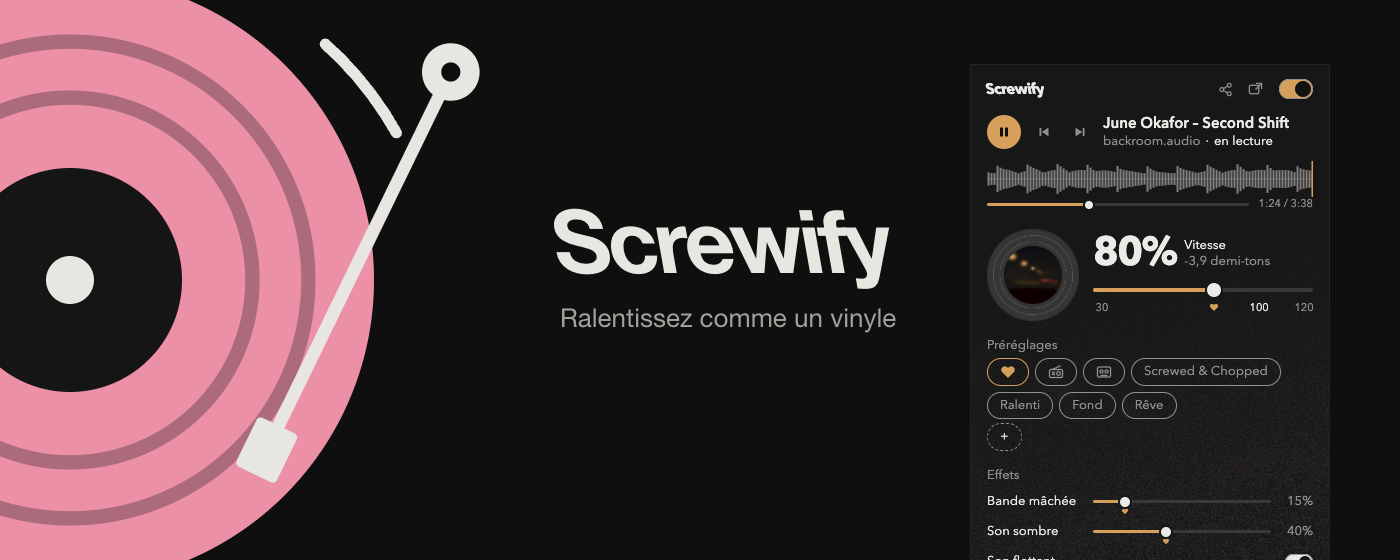
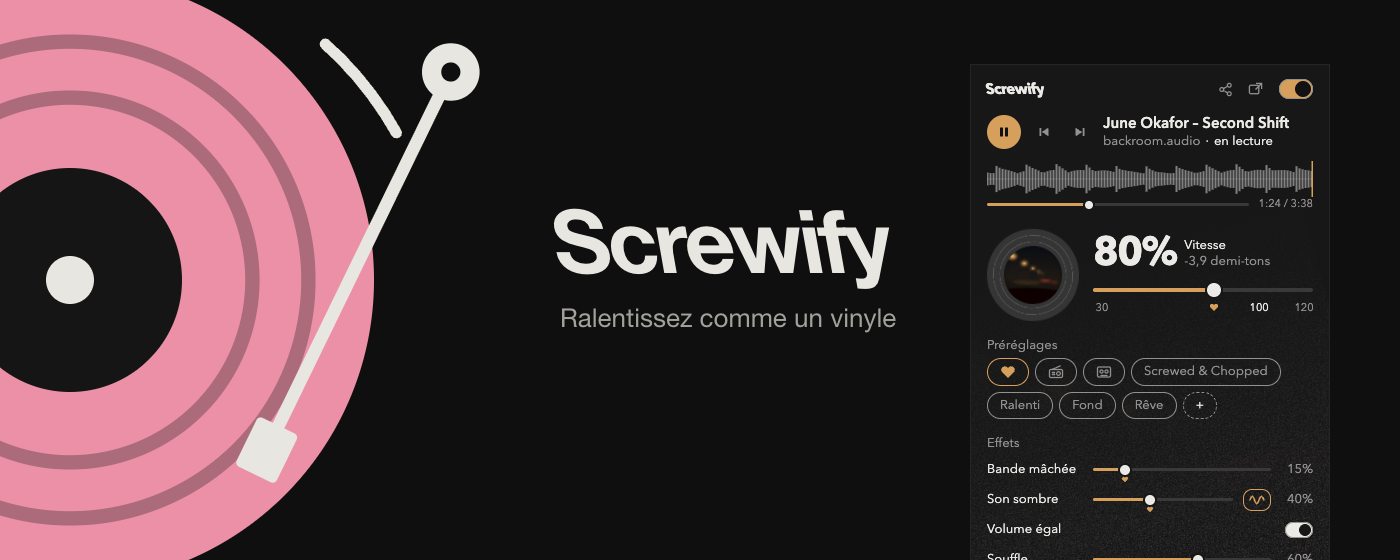
Сайт: панель и обложки под Screwify 0.24.1

diff --git a/panel/i18n.js b/panel/i18n.js
@@ -22,6 +22,8 @@ const SCREWED_I18N = {
     favSet: 'Set the recommended value',
     drift: 'Drifting tone',
     driftHint: 'The tone slowly drifts at random: the sound gets a little duller, then clearer again – like old tape. Like tape chew, but for the timbre.',
+    level: 'Even volume',
+    levelHint: 'Gently evens out loud and quiet parts, so a quiet verse and a loud chorus sit closer together – handy for background listening.',
     noise: 'Static',
     noiseTip: 'Hiss and crackle like a fading radio signal: they come and go, and get muffled together with the tone',
     restart: 'Reload the tab',
@@ -54,6 +56,13 @@ const SCREWED_I18N = {
     change: 'Change…',
     reset: 'Reset',
     presets: 'Presets',
+    wall: 'Behind the wall',
+    wallTip: 'Muffled sound, like music from the next room or a car outside – booming bass, no highs. Off by default',
+    vinyl: 'Vinyl crackle',
+    vinylTip: 'Dust and clicks of an old record, plus a faint low hum. Off by default. \'Steady\' – constant; \'Now and then\' – in waves',
+    vinylMode: 'Vinyl mode',
+    vinylSteady: 'Steady',
+    vinylRandom: 'Now and then',
     reverb: 'Reverb',
     reverbTip: 'Adds a room around the sound. Off by default',
     presetSlowed: 'Slowed',
@@ -104,6 +113,8 @@ const SCREWED_I18N = {
     favSet: 'Поставить рекомендуемое значение',
     drift: 'Плавающий тон',
     driftHint: 'Тон медленно и случайно плавает: звук то чуть глуше, то снова яснее – как у старой плёнки. Как жевание, только для тембра.',
+    level: 'Ровная громкость',
+    levelHint: 'Мягко выравнивает громкое и тихое: тихий куплет и громкий припев звучат ближе по силе – удобно слушать фоном.',
     noise: 'Шум',
     noiseTip: 'Шипение и треск, как у теряющейся радиоволны: то появляются, то пропадают и глохнут вместе с тоном',
     restart: 'Перезагрузить вкладку',
@@ -136,6 +147,13 @@ const SCREWED_I18N = {
     change: 'Изменить…',
     reset: 'Сброс',
     presets: 'Пресеты',
+    wall: 'Из-за стены',
+    wallTip: 'Глухой звук, как музыка из соседней комнаты или из машины за окном – бас бубнит, верхов нет. По умолчанию выключен',
+    vinyl: 'Винил-треск',
+    vinylTip: 'Пыль и щелчки пластинки и тихий низкий гул. По умолчанию выключен. «Постоянно» – ровный фон, «иногда» – волнами',
+    vinylMode: 'Режим винила',
+    vinylSteady: 'Постоянно',
+    vinylRandom: 'Иногда',
     reverb: 'Реверб',
     reverbTip: 'Добавляет звуку «комнату». По умолчанию выключен',
     presetSlowed: 'Slowed',
@@ -186,6 +204,8 @@ const SCREWED_I18N = {
     favSet: '设为推荐值',
     drift: '浮动音色',
     driftHint: '音色缓慢而随机地浮动：声音时而稍闷，时而又清晰，像旧磁带一样。类似绞带效果，只是作用于音色。',
+    level: '均衡音量',
+    levelHint: '柔和地拉近响与轻的差距，安静的主歌和响亮的副歌音量更接近，适合当背景音乐听。',
     noise: '杂音',
     noiseTip: '像信号时有时无的电台一样的嘶嘶声和噼啪声：时隐时现，并随音色一起变闷',
     restart: '重新加载标签页',
@@ -218,6 +238,13 @@ const SCREWED_I18N = {
     change: '更改…',
     reset: '重置',
     presets: '预设',
+    wall: '隔墙',
+    wallTip: '闷闷的声音，像隔壁房间或窗外汽车里传来的音乐，低音嗡嗡作响，没有高音。默认关闭',
+    vinyl: '黑胶噼啪',
+    vinylTip: '旧唱片的灰尘声和爆裂声，带一点低沉的嗡嗡声。默认关闭。“持续”为一直有，“偶尔”为一阵一阵',
+    vinylMode: '黑胶模式',
+    vinylSteady: '持续',
+    vinylRandom: '偶尔',
     reverb: '混响',
     reverbTip: '为声音加上房间感。默认关闭',
     presetSlowed: '慢放',
@@ -268,6 +295,8 @@ const SCREWED_I18N = {
     favSet: 'Usar el valor recomendado',
     drift: 'Tono flotante',
     driftHint: 'El tono flota despacio y al azar: el sonido se apaga un poco y vuelve a aclararse, como una cinta vieja. Como la cinta mascada, pero para el timbre.',
+    level: 'Volumen parejo',
+    levelHint: 'Iguala con suavidad lo fuerte y lo flojo: una estrofa tranquila y un estribillo potente suenan más cerca – ideal para escuchar de fondo.',
     noise: 'Ruido',
     noiseTip: 'Siseo y chasquidos como una señal de radio que se pierde: van y vienen, y se apagan junto con el tono',
     restart: 'Recargar la pestaña',
@@ -300,6 +329,13 @@ const SCREWED_I18N = {
     change: 'Cambiar…',
     reset: 'Restablecer',
     presets: 'Ajustes rápidos',
+    wall: 'Tras la pared',
+    wallTip: 'Sonido apagado, como música desde la habitación de al lado o un coche en la calle – bajos retumbantes, sin agudos. Desactivado por defecto',
+    vinyl: 'Crujido de vinilo',
+    vinylTip: 'Polvo y chasquidos de un disco viejo, con un leve zumbido grave. Desactivado por defecto. «Constante» – siempre; «A ratos» – por oleadas',
+    vinylMode: 'Modo del vinilo',
+    vinylSteady: 'Constante',
+    vinylRandom: 'A ratos',
     reverb: 'Reverb',
     reverbTip: 'Añade una sala alrededor del sonido. Desactivado por defecto',
     presetSlowed: 'Lento',
@@ -350,6 +386,8 @@ const SCREWED_I18N = {
     favSet: 'ضبط القيمة الموصى بها',
     drift: 'نغمة متموّجة',
     driftHint: 'تتموّج النغمة ببطء وعشوائيًا: يخفت الصوت قليلًا ثم يصفو من جديد – كشريط قديم. مثل مضغ الشريط، لكن لطابع الصوت.',
+    level: 'مستوى صوت متوازن',
+    levelHint: 'يقرّب برفق بين الأجزاء العالية والهادئة، فيبدو المقطع الهادئ والمذهب الصاخب أقرب في القوة – مناسب للاستماع في الخلفية.',
     noise: 'تشويش',
     noiseTip: 'هسهسة وطقطقة كإشارة راديو تضيع: تظهر وتختفي وتخفت مع النغمة',
     restart: 'إعادة تحميل التبويب',
@@ -382,6 +420,13 @@ const SCREWED_I18N = {
     change: 'تغيير…',
     reset: 'إعادة تعيين',
     presets: 'إعدادات جاهزة',
+    wall: 'من خلف الجدار',
+    wallTip: 'صوت مكتوم كموسيقى من الغرفة المجاورة أو من سيارة في الخارج – جهير مدوٍّ بلا حدّة. متوقف افتراضيًا',
+    vinyl: 'طقطقة الفينيل',
+    vinylTip: 'غبار وطقطقات أسطوانة قديمة مع طنين خافت منخفض. متوقف افتراضيًا. «دائم» – باستمرار، «أحيانًا» – على موجات',
+    vinylMode: 'وضع الفينيل',
+    vinylSteady: 'دائم',
+    vinylRandom: 'أحيانًا',
     reverb: 'صدى',
     reverbTip: 'يضيف غرفة حول الصوت. متوقف افتراضيًا',
     presetSlowed: 'Slowed',
@@ -432,6 +477,8 @@ const SCREWED_I18N = {
     favSet: 'Appliquer la valeur recommandée',
     drift: 'Son flottant',
     driftHint: 'Le son flotte lentement, au hasard : il s’étouffe un peu puis s’éclaircit – comme une vieille bande. Comme la bande mâchée, mais pour le timbre.',
+    level: 'Volume égal',
+    levelHint: 'Rapproche en douceur les passages forts et faibles : un couplet calme et un refrain puissant sonnent plus proches – idéal pour une écoute de fond.',
     noise: 'Souffle',
     noiseTip: 'Souffle et craquements comme une radio qui décroche : ils vont et viennent, et s’étouffent avec le son',
     restart: 'Recharger l’onglet',
@@ -464,6 +511,13 @@ const SCREWED_I18N = {
     change: 'Modifier…',
     reset: 'Réinitialiser',
     presets: 'Préréglages',
+    wall: 'Derrière le mur',
+    wallTip: 'Son étouffé, comme de la musique dans la pièce voisine ou une voiture dehors – basses sourdes, sans aigus. Désactivé par défaut',
+    vinyl: 'Craquements de vinyle',
+    vinylTip: 'Poussière et claquements d\'un vieux disque, avec un faible bourdonnement grave. Désactivé par défaut. « Continu » – en permanence ; « Par moments » – par vagues',
+    vinylMode: 'Mode du vinyle',
+    vinylSteady: 'Continu',
+    vinylRandom: 'Par moments',
     reverb: 'Réverb',
     reverbTip: 'Ajoute une pièce autour du son. Désactivée par défaut',
     presetSlowed: 'Ralenti',

diff --git a/panel/defaults.js b/panel/defaults.js
@@ -5,8 +5,24 @@ const SCREWED_DEFAULTS = {
   tone: 0.4,     // «тёмный» lowpass, 0..1; 40% отмечены сердечком
   noise: 0.6,    // шум эфира: редкие «потери волны» с шипением и треском, 0..1 (0 — выключено); 60% — сердечко
   reverb: 0,     // реверб, 0..1 (0 — выключен); по умолчанию выключен, пока автор не послушал
+  wall: 0,       // «из-за стены», 0..1 (0 — выключен); по умолчанию выключен, пока автор не послушал
+  vinyl: 0,      // винил-треск, 0..1 (0 — выключен); по умолчанию выключен, пока автор не послушал
+  vinylMode: 'steady', // винил-треск: 'steady' – постоянно, 'random' – волнами раз в 20–60 с
   chop: false,   // чопы и эхо в ритм: включены или нет
   drift: true,   // плавающий тон: тембр медленно и случайно гуляет, как скорость у жевания
+  level: true,   // ровная громкость: мягкий компрессор выравнивает тихое и громкое; включена по умолчанию (решение автора)
+  videoFx: false,// видео-эффекты поверх играющего видео, по умолчанию выключены
+  videoBlend: true,    // сглаживание кросс-фейдом между кадрами (заметно на замедлении)
+  videoGrade: 0.6,     // тёплая плёночная градация
+  videoGrain: 0.5,     // зерно
+  videoVignette: 0.45, // виньетка
+  videoWobble: 0.5,    // лёгкое дрожание
+  videoPulse: 0.5,     // пульс под бит
+  videoBass: 0.5,      // реакция на бас (яркость + лёгкий зум)
+  videoMid: 0.3,       // реакция на середину (дрожание)
+  videoHigh: 0.3,      // реакция на верхи (зерно)
+  videoAmbient: false, // амбиент: реактивный слой поверх всей страницы, по умолчанию выключен
+  videoAmbientAmt: 0.7,// сила амбиента
   sites: {},     // сайты, на которых эффект включён: { 'https://music.yandex.ru': true }
   lang: 'auto',  // язык интерфейса: auto — как у браузера
 };
@@ -15,13 +31,13 @@ const SCREWED_DEFAULTS = {
 // Пресет – набор значений всех ручек эффекта (не трогает сайты и язык), применяется одним действием.
 // i18n – ключ названия в i18n.js. Активным считается пресет, у которого все значения совпали с текущими.
 const SCREWED_PRESETS = [
-  { id: 'default', i18n: 'presetHeart', desc: 'presetDescHeart', icon: 'heart', values: { speed: 0.8, chewAmt: 0.15, tone: 0.4, noise: 0.6, reverb: 0, chop: false, drift: true } },
-  { id: 'radio', i18n: 'presetRadio', desc: 'presetDescRadio', icon: 'radio', values: { speed: 1, chewAmt: 0.1, tone: 0.7, noise: 0.8, reverb: 0, chop: false, drift: false } },
-  { id: 'tape', i18n: 'presetTape', desc: 'presetDescTape', icon: 'tape', values: { speed: 0.9, chewAmt: 0.5, tone: 0.5, noise: 0.3, reverb: 0.15, chop: false, drift: true } },
-  { id: 'chopped', i18n: 'presetChop', desc: 'presetDescChop', values: { speed: 0.7, chewAmt: 0, tone: 0, noise: 0, reverb: 0, chop: true, drift: false } },
-  { id: 'slowed', i18n: 'presetSlowed', desc: 'presetDescSlowed', values: { speed: 0.8, chewAmt: 0, tone: 0.4, noise: 0, reverb: 0.4, chop: false, drift: false } },
-  { id: 'background', i18n: 'presetBackground', desc: 'presetDescBg', values: { speed: 0.8, chewAmt: 0.2, tone: 1, noise: 0.5, reverb: 0.1, chop: false, drift: true } },
-  { id: 'dream', i18n: 'presetDream', desc: 'presetDescDream', values: { speed: 0.8, chewAmt: 0.05, tone: 0.9, noise: 0.3, reverb: 0.9, chop: false, drift: true } },
+  { id: 'default', i18n: 'presetHeart', desc: 'presetDescHeart', icon: 'heart', values: { speed: 0.8, chewAmt: 0.15, tone: 0.4, noise: 0.6, reverb: 0, wall: 0, vinyl: 0, chop: false, drift: true } },
+  { id: 'radio', i18n: 'presetRadio', desc: 'presetDescRadio', icon: 'radio', values: { speed: 1, chewAmt: 0.1, tone: 0.7, noise: 0.8, reverb: 0, wall: 0, vinyl: 0, chop: false, drift: false } },
+  { id: 'tape', i18n: 'presetTape', desc: 'presetDescTape', icon: 'tape', values: { speed: 0.9, chewAmt: 0.5, tone: 0.5, noise: 0.3, reverb: 0.15, wall: 0, vinyl: 0, chop: false, drift: true } },
+  { id: 'chopped', i18n: 'presetChop', desc: 'presetDescChop', values: { speed: 0.7, chewAmt: 0, tone: 0, noise: 0, reverb: 0, wall: 0, vinyl: 0, chop: true, drift: false } },
+  { id: 'slowed', i18n: 'presetSlowed', desc: 'presetDescSlowed', values: { speed: 0.8, chewAmt: 0, tone: 0.4, noise: 0, reverb: 0.4, wall: 0, vinyl: 0, chop: false, drift: false } },
+  { id: 'background', i18n: 'presetBackground', desc: 'presetDescBg', values: { speed: 0.8, chewAmt: 0.2, tone: 1, noise: 0.5, reverb: 0.1, wall: 0, vinyl: 0, chop: false, drift: true } },
+  { id: 'dream', i18n: 'presetDream', desc: 'presetDescDream', values: { speed: 0.8, chewAmt: 0.05, tone: 0.9, noise: 0.3, reverb: 0.9, wall: 0, vinyl: 0, chop: false, drift: true } },
 ];
 
 function screwedPresetActive(preset, s) {

diff --git a/panel/panel.html b/panel/panel.html
@@ -99,9 +99,11 @@
   <!-- пресеты: одна кнопка ставит сразу все ручки (список – SCREWED_PRESETS в defaults.js) -->
   <section class="presets">
     <h2 class="group" data-i18n="presets"></h2>
-    <div class="preset-row" id="presets"></div>
-    <!-- свои пресеты: кнопка «Сохранить» открывает поле имени -->
-    <div class="preset-row" id="user-presets"></div>
+    <!-- свои пресеты идут в той же строке, что и готовые; «+» открывает поле имени -->
+    <div class="preset-row">
+      <span id="presets" class="contents"></span>
+      <span id="user-presets" class="contents"></span>
+    </div>
     <form class="preset-save" id="preset-form" hidden>
       <input id="preset-name" type="text" maxlength="16" autocomplete="off" data-i18n-placeholder="presetName">
       <button type="submit" class="preset on">OK</button>
@@ -120,20 +122,24 @@
       </span>
       <output id="chewAmt-out" for="chewAmt" dir="ltr"></output>
     </div>
-    <div class="row">
+    <div class="row vinyl">
       <label class="name" for="tone" data-i18n="tone"></label>
       <!-- и у тёмного тона: сердечко на 40%, оно же значение по умолчанию -->
       <span class="slider">
         <input type="range" id="tone" min="0" max="1" step="0.01">
         <button class="fav" type="button" style="--p:.4" data-fav="tone" data-value="0.4" data-i18n-aria="favSet"><svg viewBox="0 0 12 11" aria-hidden="true"><path d="M6 10.300 1.300 5.700a2.900 2.900 0 0 1 4.100-4.100l.600.600.600-.600a2.900 2.900 0 0 1 4.100 4.100z"/></svg></button>
       </span>
+      <!-- плавающий тон – та же ручка, только она гуляет сама: волна-выключатель рядом с ползунком -->
+      <label class="icon-sw" data-i18n-title="driftHint">
+        <input type="checkbox" id="drift" data-i18n-aria="drift">
+        <svg viewBox="0 0 16 14" aria-hidden="true"><path d="M1 7c1.500-5 3-5 4.500 0s3 5 4.500 0 3-5 5 0"/></svg>
+      </label>
       <output id="tone-out" for="tone" dir="ltr"></output>
     </div>
-    <!-- плавающий тон идёт сразу за тёмным: это та же ручка, только она гуляет сама -->
-    <div class="row toggle" data-i18n-title="driftHint">
-      <label class="name" for="drift" data-i18n="drift"></label>
+    <div class="row toggle" data-i18n-title="levelHint">
+      <label class="name" for="level" data-i18n="level"></label>
       <label class="switch">
-        <input type="checkbox" id="drift">
+        <input type="checkbox" id="level">
         <span class="track-sw"></span>
       </label>
     </div>
@@ -144,6 +150,24 @@
         <button class="fav" type="button" style="--p:.6" data-fav="noise" data-value="0.6" data-i18n-aria="favSet"><svg viewBox="0 0 12 11" aria-hidden="true"><path d="M6 10.300 1.300 5.700a2.900 2.900 0 0 1 4.100-4.100l.600.600.600-.600a2.900 2.900 0 0 1 4.100 4.100z"/></svg></button>
       </span>
       <output id="noise-out" for="noise" dir="ltr"></output>
+    </div>
+    <div class="row" data-i18n-title="wallTip">
+      <label class="name" for="wall" data-i18n="wall"></label>
+      <span class="slider">
+        <input type="range" id="wall" min="0" max="1" step="0.01">
+      </span>
+      <output id="wall-out" for="wall" dir="ltr"></output>
+    </div>
+    <div class="row vinyl" data-i18n-title="vinylTip">
+      <label class="name" for="vinyl" data-i18n="vinyl"></label>
+      <span class="slider">
+        <input type="range" id="vinyl" min="0" max="1" step="0.01">
+      </span>
+      <span class="mode" id="vinyl-mode" role="group" data-i18n-aria="vinylMode">
+        <button type="button" data-mode="steady" data-i18n="vinylSteady"></button>
+        <button type="button" data-mode="random" data-i18n="vinylRandom"></button>
+      </span>
+      <output id="vinyl-out" for="vinyl" dir="ltr"></output>
     </div>
     <div class="row" data-i18n-title="reverbTip">
       <label class="name" for="reverb" data-i18n="reverb"></label>

diff --git a/panel/panel.js b/panel/panel.js
@@ -24,8 +24,8 @@ const offTargets = [
 const pct = v => `${Math.round(v * 100)}%`;
 const RPM = 100 / 3; // 33⅓
 
-const CHECKS = ['chop', 'drift'];
-const RANGES = ['speed', 'chewAmt', 'tone', 'noise', 'reverb'];
+const CHECKS = ['chop', 'drift', 'level'];
+const RANGES = ['speed', 'chewAmt', 'tone', 'noise', 'wall', 'vinyl', 'reverb'];
 
 const s = { ...SCREWED_DEFAULTS };
 let t = translator(s.lang);
@@ -43,6 +43,13 @@ function renderControls() {
     $(`${id}-out`).textContent = pct(s[id]);
     // акцентная заливка дорожки до ручки
     el.style.setProperty('--fill', `${((s[id] - el.min) / (el.max - el.min)) * 100}%`);
+  }
+  // режим треска переключается, только пока уровень больше нуля
+  for (const b of $('vinyl-mode').children) {
+    const cur = b.dataset.mode === s.vinylMode;
+    b.classList.toggle('on', cur);
+    b.setAttribute('aria-pressed', cur);
+    b.disabled = !(s.vinyl > 0);
   }
   for (const b of presetBtns) {
     const on = screwedPresetActive(b.preset, s);
@@ -82,6 +89,10 @@ $('on').addEventListener('change', e => {
 });
 for (const id of RANGES) {
   $(id).addEventListener('input', e => update({ [id]: Number(e.target.value) }));
+}
+
+for (const b of $('vinyl-mode').children) {
+  b.addEventListener('click', () => update({ vinylMode: b.dataset.mode }));
 }
 
 // пресеты: кнопки строим по списку из defaults.js; подсветка гаснет, когда ручки разошлись с пресетом
@@ -316,7 +327,7 @@ function renderLive() {
 function ping() {
   if (activeTabId === null) return;
   chrome.tabs.sendMessage(activeTabId, { type: 'screwed:ping', tabId: activeTabId })
-    .then(() => { reachable = true; refresh(); })
+    .then(() => { reachable = true; pinged = true; refresh(); welcome(); })
     .catch(() => {
       reachable = false;
       refresh();
@@ -331,6 +342,7 @@ function bindTab(tab) {
   tabUrl = tab ? tab.url : null;
   resetTab();
   reachable = true;
+  pinged = false;
   refresh();
   ping();
   connectToBackground();
@@ -358,7 +370,7 @@ chrome.runtime.onMessage.addListener((msg, sender) => {
 
 chrome.tabs.onUpdated.addListener((tabId, info) => {
   if (tabId !== activeTabId) return;
-  if (info.url) { tabSite = screwedSite(info.url); tabUrl = info.url; refresh(); } // во вкладке открыли другой сайт
+  if (info.url) { tabSite = screwedSite(info.url); tabUrl = info.url; pinged = false; refresh(); } // во вкладке открыли другой сайт
   if (info.status === 'loading') { resetTab(); renderLive(); }
   if (info.status === 'complete') ping();
 });
@@ -1033,10 +1045,27 @@ function setCover(url) {
   img.src = url;
 }
 
+// При самом первом открытии панели после установки эффект сразу включается на сайте вкладки:
+// ключ welcomed запоминает, что это уже было, и дальше выбор остаётся за пользователем.
+// Ключ false ставит только background при свежей установке (reason 'install'): у старых
+// пользователей его нет – значит, true, и ничего само не включается.
+// Только когда страница вкладки ответила на ping: на вкладках, где расширение не работает
+// (Chrome Web Store, chrome://), приветствие не тратится.
+let welcomed = true;
+let pinged = false;
+function welcome() {
+  if (welcomed || !pinged || !canToggle()) return;
+  welcomed = true;
+  chrome.storage.local.set({ welcomed: true });
+  if (!s.sites[tabSite]) update({ sites: screwedSitesWith(s.sites, tabSite, true) });
+}
+
 screwedMigrate();
-chrome.storage.local.get(SCREWED_DEFAULTS, saved => {
+chrome.storage.local.get({ ...SCREWED_DEFAULTS, welcomed: true }, ({ welcomed: seen, ...saved }) => {
   Object.assign(s, saved);
+  welcomed = seen;
   loaded = true;
+  welcome();
   applyLang();
   renderControls();
   if (!still) raf(spin);

diff --git a/panel/panel.css b/panel/panel.css
@@ -386,6 +386,7 @@ input[type=range]:focus-visible { outline-offset: 0; border-radius: 4px; }
 .preset.add { border: 1px dashed var(--muted); padding: 4px 12px; }
 .preset .ico { display: block; width: 16px; height: 14px; fill: none; stroke: currentColor; stroke-width: 1.300; stroke-linecap: round; stroke-linejoin: round; }
 .preset .ico.solid { fill: currentColor; stroke: none; }
+.contents { display: contents; }
 .preset-save { display: flex; gap: 6px; margin-top: 6px; }
 .preset-save[hidden] { display: none; }
 .preset-save input { flex: 1; min-width: 0; padding: 4px 10px; font: inherit; font-size: 13px; color: var(--fg); background: none; border: 1px solid var(--muted); border-radius: 999px; }
@@ -408,6 +409,28 @@ input[type=range]:focus-visible { outline-offset: 0; border-radius: 4px; }
   gap: 10px;
   min-height: 30px;
 }
+.row.vinyl { grid-template-columns: 96px 1fr auto 32px; }
+/* переключатель-иконка: волна горит, когда плавающий тон включён */
+.icon-sw { position: relative; display: grid; place-items: center; width: 28px; height: 22px; border: 1px solid var(--line); border-radius: 9px; color: var(--muted); cursor: pointer; }
+.icon-sw input { position: absolute; inset: 0; opacity: 0; margin: 0; cursor: pointer; }
+.icon-sw svg { width: 16px; height: 14px; fill: none; stroke: currentColor; stroke-width: 1.500; stroke-linecap: round; stroke-linejoin: round; pointer-events: none; }
+.icon-sw:hover { color: var(--fg); }
+.icon-sw:has(input:checked) { color: var(--accent); border-color: var(--accent); }
+.icon-sw:has(input:focus-visible) { outline: 2px solid var(--fg); outline-offset: 1px; }
+.mode { display: inline-flex; border: 1px solid var(--line); border-radius: 9px; overflow: hidden; }
+.mode button {
+  padding: 1px 6px;
+  border: 0;
+  background: none;
+  font: inherit;
+  font-size: 10px;
+  color: var(--muted);
+  cursor: pointer;
+}
+.mode button + button { border-inline-start: 1px solid var(--line); }
+.mode button:hover:not(:disabled), .mode button:focus-visible { color: var(--fg); }
+.mode button.on { background: var(--line); color: var(--fg); }
+.mode button:disabled { opacity: .4; cursor: default; }
 .row .name { overflow: hidden; text-overflow: ellipsis; white-space: nowrap; }
 /* эффект без силы — только включён или нет: название и выключатель у правого края */
 .row.toggle { grid-template-columns: 1fr auto; position: relative; }
